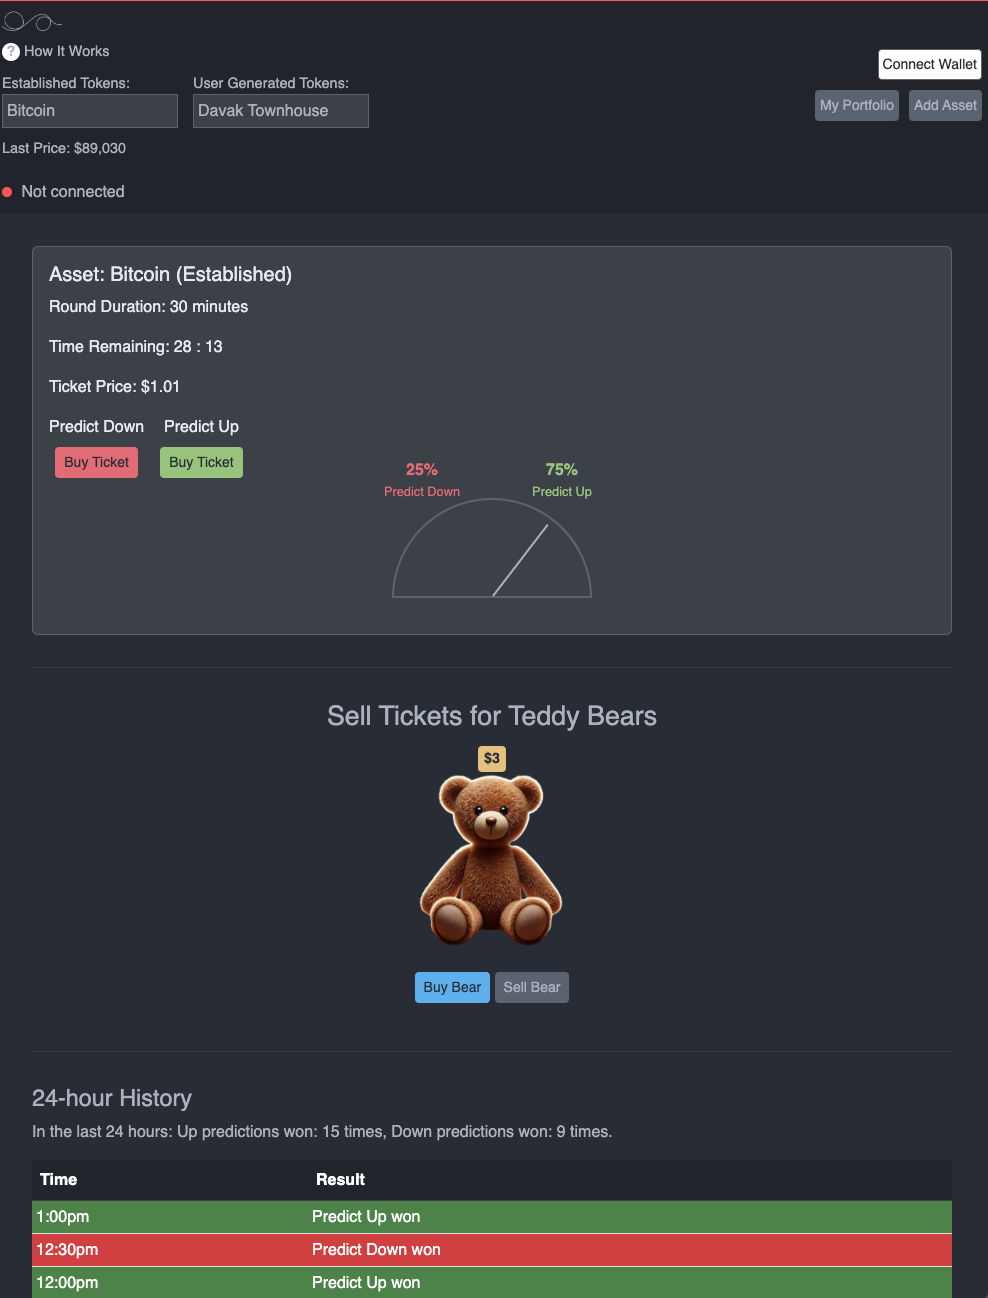
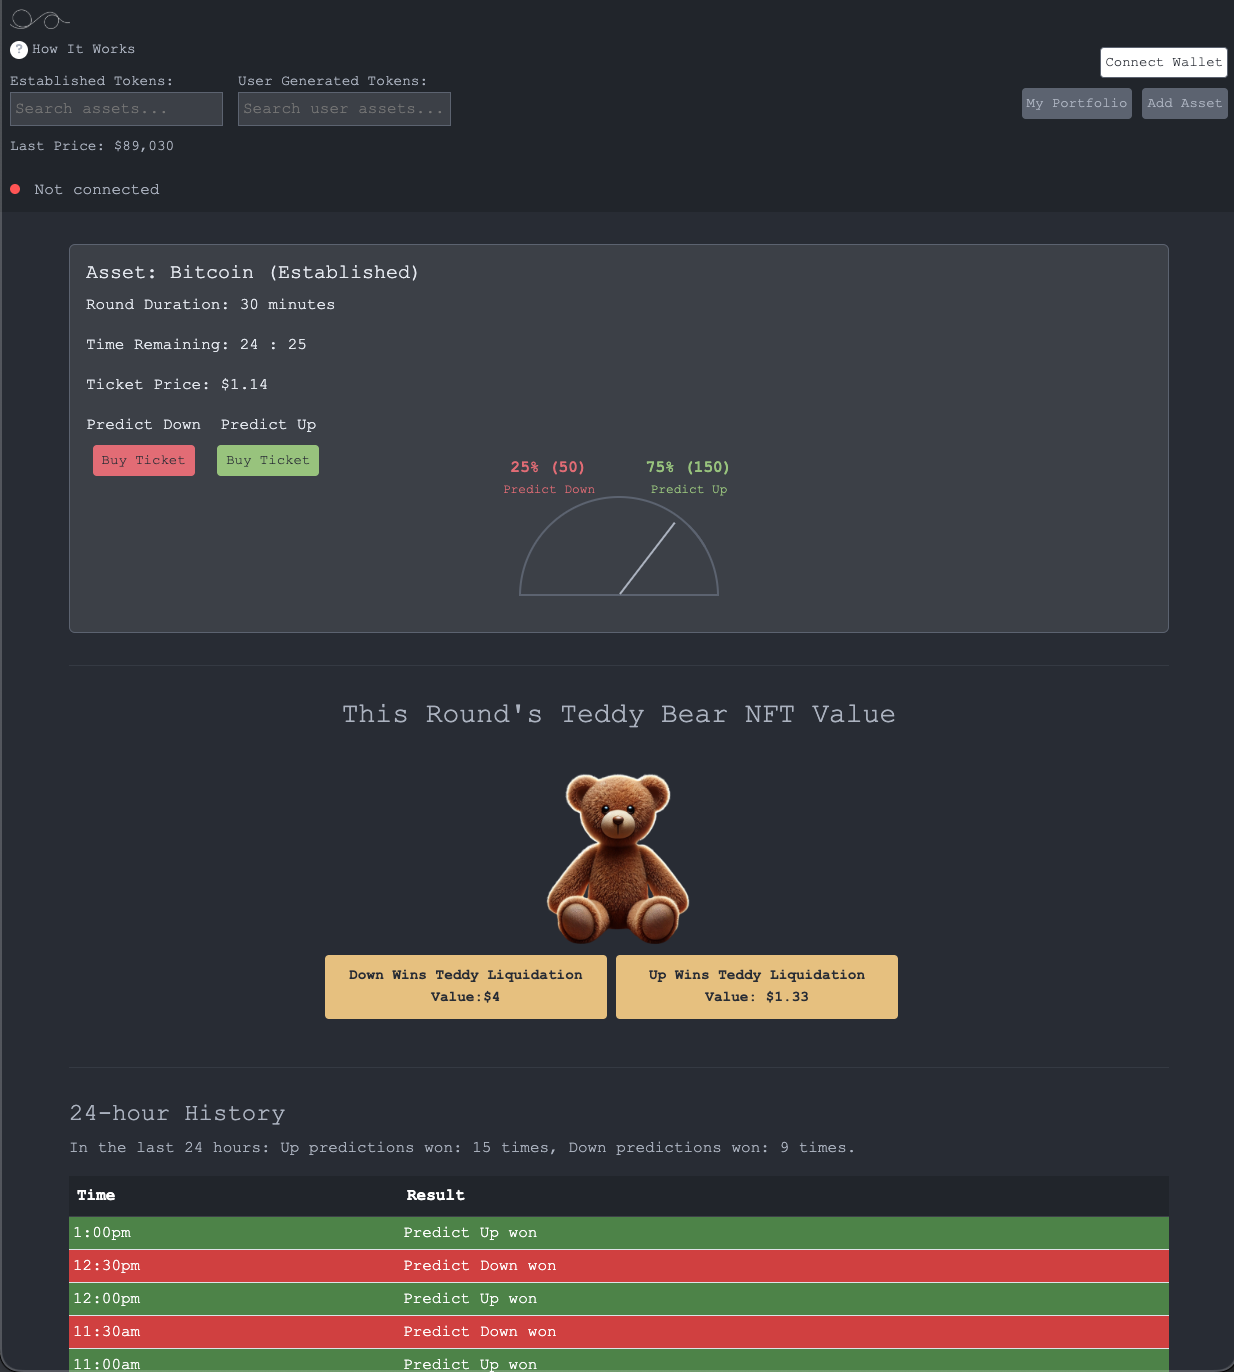
updated demo preview

diff --git a/website/demo/index.html b/website/demo/index.html
@@ -14,9 +14,10 @@
     </head>
     <body>
         <div class="alert-banner">
-            <strong>Demo Notice:</strong> Ampable is a demo on-chain game. The
-            smart contract is under active development and security review. No
-            real USDC is used—this simulation is for testing and feedback only.
+            <strong>Demo Notice:</strong> This is a demo of an on-chain game.
+            The smart contract is under active development and security review.
+            No real USDC is used. This simulation is for testing and feedback
+            only.
         </div>
 
         <!-- Top Bar -->
@@ -103,10 +104,12 @@
                         />
                         <div id="teddyPrices">
                             <div class="price-tag1">
-                                Down Wins Teddy Liquidation Value:$4
+                                Down Wins<br />
+                                Teddy Liquidation Value:$4
                             </div>
                             <div class="price-tag">
-                                Up Wins Teddy Liquidation Value: $1.33
+                                Up Wins<br />
+                                Teddy Liquidation Value: $1.33
                             </div>
                         </div>
                     </div>
